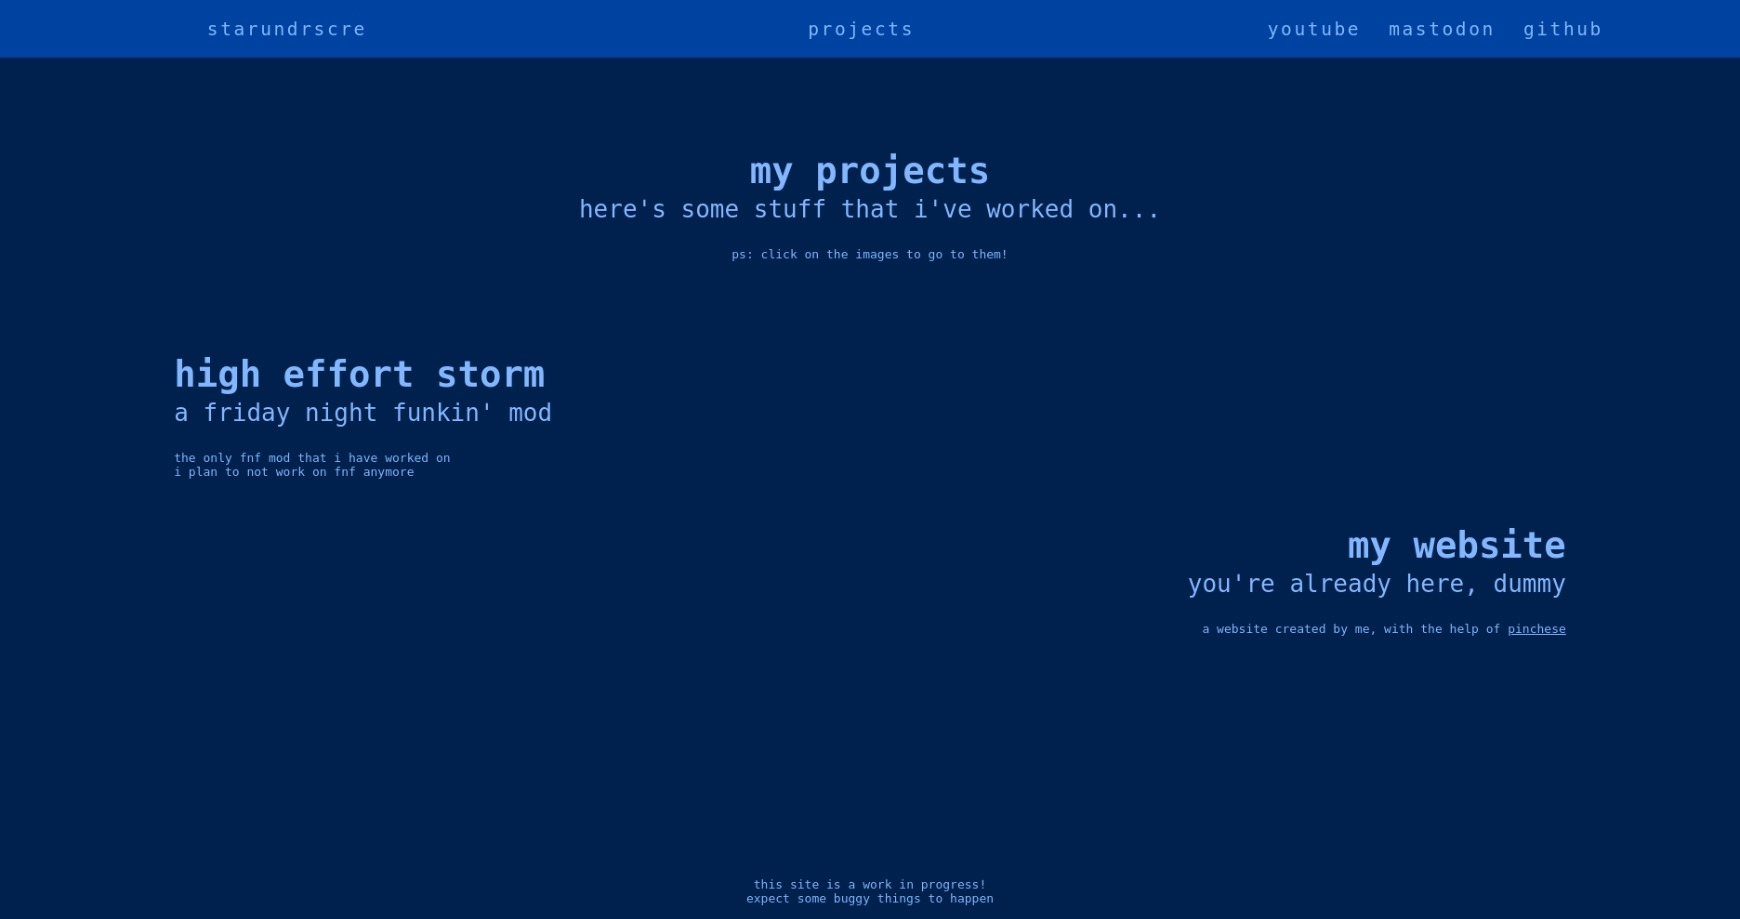
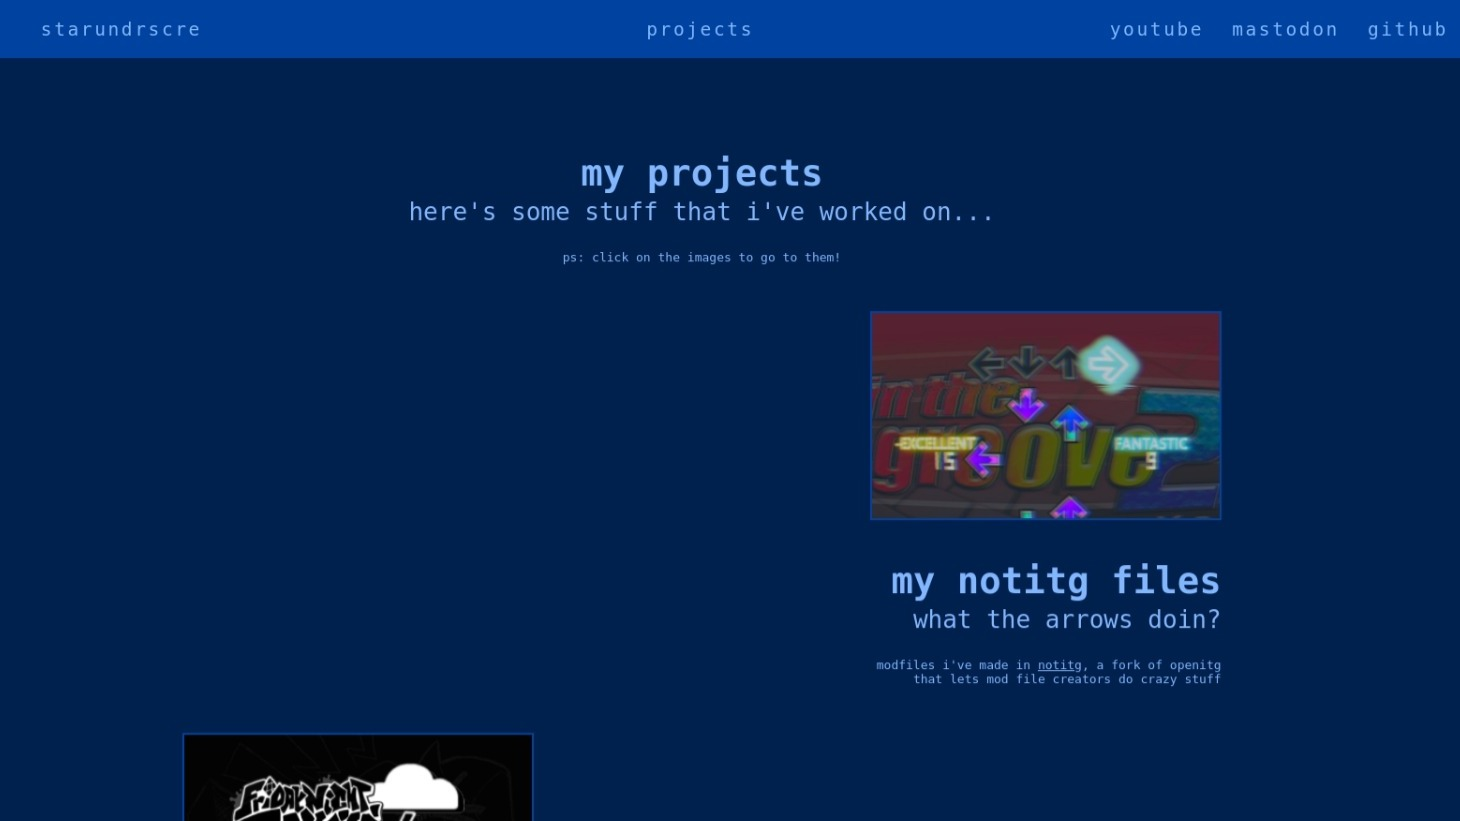
i love video games

diff --git a/projects/notitg.html b/projects/notitg.html
@@ -2,17 +2,17 @@
 <html lang="en">
 <head>
     <meta charset="UTF-8">
-    <link rel="stylesheet" href="css/index.css">
+    <link rel="stylesheet" href="../css/index.css">
     <meta http-equiv="X-UA-Compatible" content="IE=edge">
     <meta name="viewport" content="width=device-width, initial-scale=1.0">
     <link rel="icon" href="/img/starplush.png" type="image/icon type">
     <!-- discord stuff -->
-    <meta content="StarUndrscre's projects" property="og:title"/>
-    <meta content="hello! i'm star" property="og:description"/>
+    <meta content="StarUndrscre's NotITG files" property="og:title"/>
+    <meta content="i love video games" property="og:description"/>
     <meta content="https://starundrscre.github.io" property="og:url"/>
     <meta content="/img/starplush.png" property="og:image"/>
     <meta content="#82b6ff" data-react-helmet="true" name="theme-color"/>
-    <title>StarUndrscre's projects</title>
+    <title>StarUndrscre's NotITG Files</title>
 </head>
     <body>
         <header>
@@ -79,33 +79,18 @@
         </nav>
 
         <div id="headerthing">
-            <p class=header1>my projects</p>
-            <p class=header2>here's some stuff that i've worked on...</p>
-            <p>ps: click on the images to go to them!</p>
+            <p class=header1>notITG files</p>
+            <p class=header2>my NotITG files! expect more here soon</p>
         </div>
 
         <div class="rightcolumn">
-            <a href="/projects/notitg.html"><img src="img/projects/notitg.jpg"></a>
-            <p class="header1"><a href="/projects/notitg.html">my notitg files</a></p>
-            <p class="header2">what the arrows doin?</p>
-            <p>modfiles i've made in <a target="_blank" href="https://notitg.heysora.net/">notitg</a>, a fork of openitg<br>that lets mod file creators do crazy stuff</p>
+            <a target="_blank" href="https://www.youtube.com/watch?v=mSJrnTmexnw"><img src="../img/notitg/banner.png"></a>
+            <p class="header1"><a target="_blank" href="https://www.youtube.com/watch?v=mSJrnTmexnw">lo-fi hip-hop beats to<br>treat patients to</a></p>
+            <p class="header2">fizzd</p>
+            <p>my first modfile<br>file difficulty: <b>6</b></p>
         </div>
 
-        <div class="leftcolumn">
-            <a target="_blank" href="https://gamebanana.com/mods/304726"><img src="img/projects/high_effort_storm.png"></a>
-            <p class="header1"><a target="_blank" href="https://gamebanana.com/mods/304726">high effort storm</a></p>
-            <p class="header2">a friday night funkin' mod</p>
-            <p>the only fnf mod that i have worked on<br>i plan to not work on fnf anymore</p>
-        </div>
-        
-        <div class="rightcolumn">
-            <a href="/projects"><img src="img/projects/website_lol.jpeg"></a>
-            <p class="header1"><a href="/projects">my website</a></p>
-            <p class="header2">you're already here, dummy</p>
-            <p >a website created by me, with the help of <a href="https://pinchese.github.io/" target="_blank">pinchese</a></p>
-        </div>
-
-        <div id="footer-long">
+        <div id="footer">
             this site is a work in progress!<br>expect some buggy things to happen
         </div>
     </body>

diff --git a/css/index.css b/css/index.css
@@ -94,6 +94,10 @@ body {
     font-weight: bold;
 }
 
+.header1 a {
+    text-decoration: none;
+}
+
 .header2 {
     font-size: 2rem;
     margin-top: 4px;
